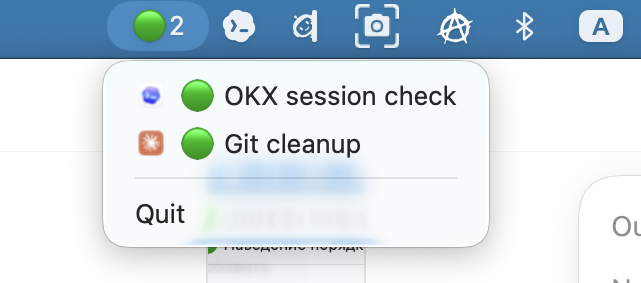
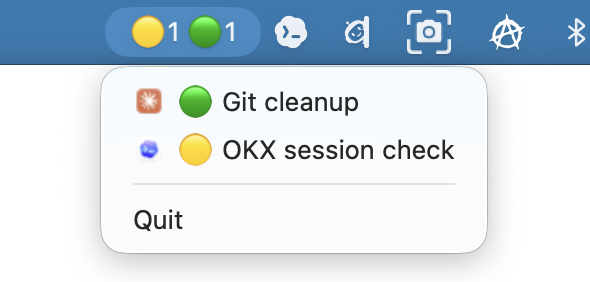
fix: prefer live iTerm session titles in menu labels (PTN-62)
'title of t' returns the static tab title, which goes stale after the
session renames itself; 'name of s' matches what the tab actually
shows. Prefer the session name, fall back to the tab title. Refresh
the README screenshot and docs wording, add unreleased changelog.

diff --git a/AgentTrafficLight/AgentTrafficLight/StatusStore.swift b/AgentTrafficLight/AgentTrafficLight/StatusStore.swift
@@ -17,7 +17,7 @@ final class StatusStore: ObservableObject {
     private var timer: Timer?
 
     private var rawAttention: [AttentionItem] = []   // labels = project name (from aggregate)
-    private var tabNames: [String: String] = [:]     // iTerm session GUID → tab title (cosmetic)
+    private var tabNames: [String: String] = [:]     // iTerm session GUID → displayed title (cosmetic)
     private var liveITermGUIDs: Set<String>? = nil   // nil = iTerm not queried / unavailable
     private var liveITermObservedAt: TimeInterval? = nil
     private var queryingNames = false
@@ -154,8 +154,8 @@ final class StatusStore: ObservableObject {
             repeat with t in tabs of w
               set tabTitle to title of t
               repeat with s in sessions of t
-                set label to tabTitle
-                if label is "" then set label to name of s
+                set label to name of s
+                if label is "" then set label to tabTitle
                 set out to out & (id of s) & (character id 9) & label & (character id 10)
               end repeat
             end repeat

diff --git a/AgentTrafficLight/AgentTrafficLightTests/AgentTrafficLightTests.swift b/AgentTrafficLight/AgentTrafficLightTests/AgentTrafficLightTests.swift
@@ -112,7 +112,7 @@ final class AggregatorTests: XCTestCase {
         XCTAssertEqual(cleanTabName("Fix bug", maxLen: 22), "Fix bug")
     }
 
-    func test_parseITermTabTitleMap_usesTabTitleForEachSession() {
+    func test_parseITermTabTitleMap_parsesGuidTitleLines() {
         let output = """
         GUID-A\tOKX session check
         GUID-B\tOKX session check

diff --git a/CHANGELOG.md b/CHANGELOG.md
@@ -1,5 +1,14 @@
 # Changelog
 
+## Unreleased
+
+- Fixed: nested Codex runs spawned inside a Claude Code session (review helpers etc.)
+  no longer steal the tab row and flip its agent icon.
+- Changed: menu labels now prefer the live iTerm session title over the static tab
+  title, so labels always match what the tab shows, including renames.
+- Fixed: the hook test suite is hermetic when run from an iTerm or Claude Code
+  environment.
+
 ## 1.0.0 - 2026-07-05
 
 - Added the Developer ID notarized release pipeline.

diff --git a/README.md b/README.md
@@ -11,7 +11,7 @@ menu bar, so I can always see which agent is working, which one has finished, an
 one needs my attention.
 
 <p align="center">
-  <img src="docs/assets/agent-signals-menu.png" width="641" alt="Agent Signals menu showing two completed agent sessions">
+  <img src="docs/assets/agent-signals-menu.png" width="590" alt="Agent Signals menu showing a finished Claude Code session and a working Codex session">
 </p>
 
 Agent Signals is a small macOS menu bar app for people who run AI coding agents in
@@ -32,13 +32,14 @@ lets you focus the relevant iTerm tab from the menu.
 | ⚠️ | Agent was working, but the tracked process died |
 
 The menu lists active Claude Code and Codex terminal sessions, shows the agent logo,
-uses the iTerm tab title when available, and focuses the tab when clicked.
+uses the live iTerm session title when available, and focuses the tab when clicked.
 
 ## Features
 
 - Menu bar traffic-light counters for waiting, working, finished, and failed sessions.
 - Dropdown session list with Claude Code and Codex icons.
-- iTerm tab titles in the session list, including titles changed after the agent starts.
+- Live iTerm session titles in the session list, matching what the tab shows right now,
+  including renames after the agent starts.
 - One-click focus for the relevant iTerm tab.
 - Local JSON status pipeline under `~/.claude/agent-traffic/`.
 - Automatic cleanup for closed tabs, duplicate session records, stale work, and dead
@@ -171,7 +172,7 @@ More details: [docs/RELEASE.md](docs/RELEASE.md).
 - Codex terminal has no waiting/approval hook, so Codex shows only 🟡, 🟢, and ⚠️.
 - Codex terminal has no `SessionEnd`; closed Codex tabs are cleaned by iTerm GUID checks,
   TTL, or internal cleanup.
-- iTerm tab titles are best effort. If Automation is denied or iTerm is slow, the menu
+- iTerm session titles are best effort. If Automation is denied or iTerm is slow, the menu
   falls back to the project directory name.
 - Long-running single tools without hook activity for more than one hour may be dropped
   from 🟡 to avoid stale process-id ghosts.

diff --git a/docs/ARCHITECTURE.md b/docs/ARCHITECTURE.md
@@ -59,7 +59,7 @@ deleted to reduce stale process-id reuse.
 The app uses AppleScript through `/usr/bin/osascript` to:
 
 - list open iTerm sessions and their GUIDs;
-- resolve tab titles;
+- resolve live session titles (tab title as fallback);
 - focus the clicked tab.
 
 The iTerm query is throttled and guarded by a timeout. If Automation is denied or iTerm